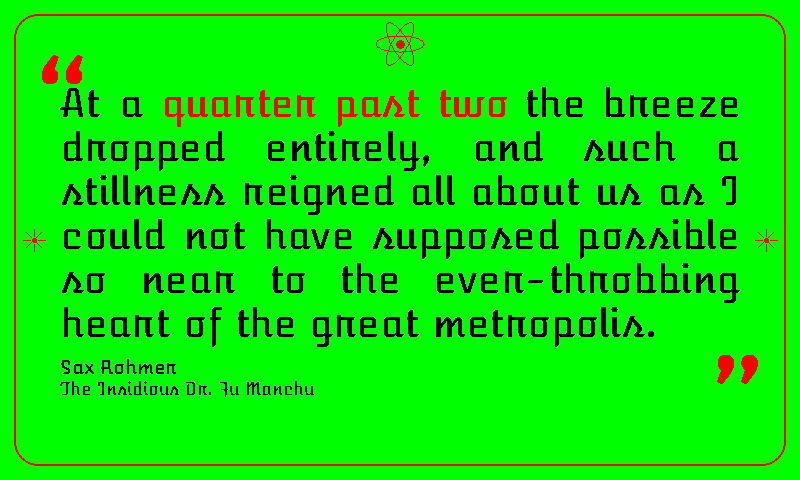
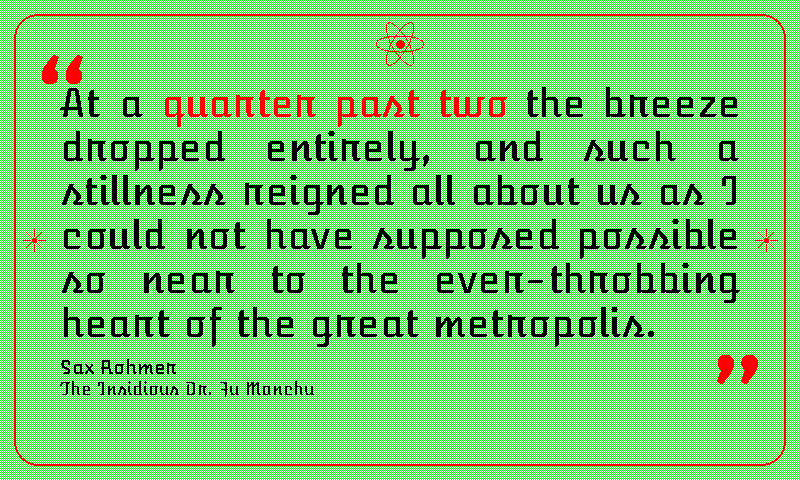
Dither atomic theme ground 50/50 white/green; tighten theme gallery
The atomic theme's solid Spectra-6 green ground was visually loud — at
panel viewing distance the eye couldn't soften it. Paint a 50/50
white-on-green checkerboard as Layer 0 of draw_atomic_border so the
ground reads as a pale minty wash while staying natively on the panel
palette (every pixel still one of the six pure inks; snap_image_to_palette
is a no-op). Same trick alchemy uses for its parchment halftone.

Also pare down the README theme gallery: drop the editorial annotations
from the data columns and collapse each "Feel" entry to one tight phrase
so the preview images carry the visual detail instead of the prose.
Regenerated assets/previews/atomic.png to reflect the dithered ground.

https://claude.ai/code/session_01GUDzVT7kFuEAMTLgEcieqM

diff --git a/render_quote.py b/render_quote.py
@@ -248,13 +248,15 @@ THEMES = {
     },
     # Mid-century atomic age. Sputnik-green ground (the only theme to
     # claim Spectra 6's flat green as a *background* — every other
-    # theme uses green only as ink), chunky black body in the Atomic
-    # Age display face, atomic-energy red for the matched time
-    # phrase and the decorative graphics. Pairs with a
-    # ``draw_atomic_border`` of a rounded-corner red frame
-    # (Googie / streamlined-modern curves), a centred atom symbol at
-    # the top of the page (three rotated red ellipse "orbits" plus a
-    # central red nucleus), and small red starbursts at the
+    # theme uses green only as ink), softened by a 50/50 white-on-green
+    # checkerboard painted in ``draw_atomic_border``'s Layer 0 so the
+    # ground reads as a pale minty wash rather than the panel's vivid
+    # pure green. Chunky black body in the Atomic Age display face,
+    # atomic-energy red for the matched time phrase and the decorative
+    # graphics. Pairs with a ``draw_atomic_border`` of a rounded-corner
+    # red frame (Googie / streamlined-modern curves), a centred atom
+    # symbol at the top of the page (three rotated red ellipse "orbits"
+    # plus a central red nucleus), and small red starbursts at the
     # mid-edges (the radiating-rays motif of 1950s diner / motel
     # signage). Reads as a vintage atomic-age advertisement at a
     # glance — bright, optimistic, slightly garish.
@@ -265,8 +267,8 @@ THEMES = {
         "faint": SPECTRA6["black"],
         "accent": SPECTRA6["red"],
         # Both ornament keys collapse onto red so the oversized
-        # quote marks render as solid red against the green ground —
-        # otherwise the dither's green half would blend into the bg
+        # quote marks render as solid red against the dithered ground —
+        # otherwise the dither's lighter half would blend into the bg
         # and leave half-density ornaments. Same trick `gothic`
         # uses to keep its red blackletter quote marks dramatic.
         "ornament_dark": SPECTRA6["red"],
@@ -2110,11 +2112,27 @@ def draw_dispatch_border(image: Image.Image, colors: dict) -> None:
 
 
 def draw_atomic_border(image: Image.Image, colors: dict) -> None:
-    """Atomic-age decorative border: rounded frame + atom symbol + starbursts.
+    """Atomic-age decorative border: dithered ground + rounded frame + atom + starbursts.
 
-    Three motifs from the 1950s-60s atomic / Sputnik / Googie design
+    Four layers from the 1950s-60s atomic / Sputnik / Googie design
     vocabulary:
 
+    * **Layer 0 — 50/50 white-on-green checkerboard ground.** Every
+      pixel matching ``page_bg`` is replaced with white on one half of
+      a single-pixel checkerboard, leaving the other half as the
+      Spectra-6 flat green. At panel viewing distance the eye averages
+      the alternation into a pale minty wash — softer than the solid
+      vivid green of the underlying ink, but still unmistakably green.
+      Painted at the very start of the painter, BEFORE the decoration
+      layers below, so the rounded frame / atom / starbursts overpaint
+      the dithered ground cleanly. The pattern lives natively on the
+      Spectra-6 palette (every output pixel is still one of the six
+      pure panel colours), so ``snap_image_to_palette`` is a no-op
+      and subsequent text rendering uses these pixels as anti-aliasing
+      source — the palette snap step rounds mixed-edge pixels back to
+      the same colours they produced before the dither, so glyph
+      silhouettes stay sharp. Same trick the ``alchemy`` parchment
+      halftone uses.
     * **Rounded-corner outer frame** in red — the streamlined-modern
       curve language of Googie coffee-shop architecture and motel
       signage. ``draw.rounded_rectangle`` is Pillow ≥ 8.2.
@@ -2135,12 +2153,25 @@ def draw_atomic_border(image: Image.Image, colors: dict) -> None:
       keeps them outside the centred body text block and balances the
       composition top-to-bottom.
 
-    Every glyph is in the theme's ``accent`` colour (red), so a future
-    palette tweak in ``THEMES["atomic"]`` flows through automatically.
+    Every decoration glyph is in the theme's ``accent`` colour (red),
+    so a future palette tweak in ``THEMES["atomic"]`` flows through
+    automatically.
     """
-    draw = ImageDraw.Draw(image)
     width, height = image.size
+    page_bg = colors["page_bg"]
     accent = colors["accent"]
+
+    # Layer 0: 50/50 white-on-green checkerboard. Only pixels matching
+    # the exact ``page_bg`` colour are affected — defence in depth if a
+    # future caller paints accents before this painter runs.
+    dither_light = SPECTRA6["white"]
+    pixels = image.load()
+    for y in range(height):
+        for x in range(width):
+            if (x + y) & 1 and pixels[x, y] == page_bg:
+                pixels[x, y] = dither_light
+
+    draw = ImageDraw.Draw(image)
 
     # Rounded outer frame.
     frame_inset = 14

diff --git a/README.md b/README.md
@@ -253,28 +253,28 @@ python3 run_clock.py --once --display-script display_inky.py --mode production
 
 ### Themes
 
-Eighteen themes ship built-in, all constrained to the Spectra 6 panel palette (white / black / red / yellow / blue / green). Each theme also pairs its palette with its own typeface so the visual voice — not just the colour — shifts with the theme. Previews all show the same quote so the palette + typography differences are the only variable; the real renders adapt layout to the picked line's length.
+Eighteen themes ship built-in, all constrained to the Spectra 6 panel palette (white / black / red / yellow / blue / green). Each theme pairs its palette with a dedicated typeface. Previews use a fixed quote so palette + typography are the only variables; production renders adapt layout to the picked line.
 
-| `--theme`     | Preview | Page bg | Body text | Accent  | Typeface         | Feel                                          |
-|---------------|---------|---------|-----------|---------|------------------|-----------------------------------------------|
-| `default`     | <img src="assets/previews/default.png" width="240" alt="default theme preview">         | white   | black     | red     | Playfair Display | Classic broadsheet                            |
-| `dark`        | <img src="assets/previews/dark.png" width="240" alt="dark theme preview">               | black   | white     | yellow  | Playfair Display | Night mode                                    |
-| `scholar`     | <img src="assets/previews/scholar.png" width="240" alt="scholar theme preview">         | white   | blue      | red     | Bitter (slab)    | Academic textbook / journal                   |
-| `newsprint`   | <img src="assets/previews/newsprint.png" width="240" alt="newsprint theme preview">     | white   | black     | (none)  | Old Standard TT  | Pure typography — bold-weight accent          |
-| `nightvision` | <img src="assets/previews/nightvision.png" width="240" alt="nightvision theme preview"> | black   | green     | yellow  | Space Mono       | Retro terminal / Apollo-era monitor           |
-| `blueprint`   | <img src="assets/previews/blueprint.png" width="240" alt="blueprint theme preview">     | white   | blue      | red     | Archivo (sans)   | Drafting blueprint / engineering sheet        |
-| `illuminated` | <img src="assets/previews/illuminated.png" width="240" alt="illuminated theme preview"> | white   | red       | blue    | EB Garamond + UnifrakturMaguntia | Rubricated medieval manuscript  |
-| `gothic`      | <img src="assets/previews/gothic.png" width="240" alt="gothic theme preview">           | black   | white     | red     | EB Garamond + UnifrakturMaguntia | Cathedral chronicle — blackletter matched phrase + oversized rubricated quote marks, double-rule frame with corner quatrefoils and mid-edge diamonds |
-| `bauhaus`     | <img src="assets/previews/bauhaus.png" width="240" alt="bauhaus theme preview">         | white   | black     | blue (+ red ornaments) | Jost (geometric sans) | Bauhaus poster — three primaries at once |
-| `risograph`   | <img src="assets/previews/risograph.png" width="240" alt="risograph theme preview">     | white   | red       | blue    | Rubik (rounded sans) | Zine / two-colour riso — no black plate   |
-| `comic`       | <img src="assets/previews/comic.png" width="240" alt="comic theme preview">             | yellow  | black     | red     | Bangers (comic)  | Golden-age comic panel                        |
-| `dispatch`    | <img src="assets/previews/dispatch.png" width="240" alt="dispatch theme preview">       | white   | black     | red     | Special Elite (typewriter slab-mono) | Vintage field dispatch — typewritten body, bichrome ribbon-shift accent, tractor-feed perforations on the side margins, red rubber-stamp imprint top-right |
-| `atomic`      | <img src="assets/previews/atomic.png" width="240" alt="atomic theme preview">           | green   | black     | red     | Atomic Age (1950s display)           | Mid-century atomic age — Sputnik-green ground, chunky display body, rounded Googie frame with a centred atom symbol at top and twin starbursts at the mid-edges |
-| `marker`      | <img src="assets/previews/marker.png" width="240" alt="marker theme preview">           | white   | black     | blue    | Permanent Marker (hand-drawn)        | Fridge-doodle Sharpie hand — multi-colour dashed perimeter, four corner asterisks (red / blue / green / yellow), and yellow + green mid-edge marker dots; the only theme that lights up every Spectra 6 spot colour at once |
-| `saloon`      | <img src="assets/previews/saloon.png" width="240" alt="saloon theme preview">           | white (foxed) | black | red | Rye (wood-engraved slab)             | 19th-century Wild West wanted-poster — heavy block-printed body in Rye, layered background (sparse red foxing speckles across the page, ornamented top + bottom banner bands, double-rule frame, corner fleurons with red triangular wings, mid-edge red diamonds) |
-| `roman`       | <img src="assets/previews/roman.png" width="240" alt="roman theme preview">             | white (limestone) | black | red (rubrum) | Cinzel Decorative (Trajan-column inscriptional capitals) | Roman lapidary inscription — V-cut chiselled capitals on limestone, tabula ansata frame with trapezoidal handles, SPQR cartouche, red rubrum on the matched phrase, stone-grain speckles in the margin, mid-edge interpunct dots, laurel sprig at bottom |
-| `alchemy`     | <img src="assets/previews/alchemy.png" width="240" alt="alchemy theme preview">         | yellow (parchment, halftoned) | black | red (rubric) | IM Fell English (17th-century Oxford types) + MedievalSharp (calligraphic ritual hand) | Parchment grimoire — yellow page ground halftoned with a 4×4 Bayer-dither pattern keeping only 2 of every 16 pixels yellow (the other 14 converted to white) so the eye averages the alternating pure-yellow + pure-white pixels into a pale ivory parchment with subtle yellow warmth (newsprint-style halftoning — the only way to fake a non-palette tone on the 6-colour Spectra panel), period-authentic Fell types for the body, red-rubricated matched phrase in MedievalSharp's sharp ritual-scribe hand. Full transmutation-circle ritual diagram: rectangular red ritual boundary + four red corner pentagrams in their protective circles, big inscribed blue transmutation circle with double-ring incantation band (72 tick marks at 5° intervals), inscribed pentagram + inner pentagon + five red anchor dots at the star's outer vertices, four flanking planetary glyphs (☉ Sol / ☽ Luna / ♂ Mars / ♀ Venus) along the top margin around the transmutation-circle's apex, and the four classical-element triangles (🜃 Earth / 🜄 Water / 🜂 Fire / 🜁 Air) along the bottom margin with the alchemical sun glyph (☉) centred between them — the body quote sits in the inscribed-pentagon "operative chamber" as the phrase being declared into the circle |
-| `grimoire`    | <img src="assets/previews/grimoire.png" width="240" alt="grimoire theme preview">       | black   | white     | red     | IM Fell English + TFoustScript       | Alchemical Faustian spellbook — IM Fell English body in white on a leather-bound black ground (Igino Marini's digital revival of John Fell's 17th-century Oxford University Press types, deliberate inking irregularities preserved so the page reads as a genuine antique tome), matched time phrase scrawled in red TFoustScript's hollow-outline shaggy silhouette like a magic-circle inscription, thin red outer rule with a five-pointed pentagram *inscribed in a ring* at each corner, and the four classical planetary alchemical sigils on the mid-edges (Sun ☉ top, Moon ☽ bottom, Mars ♂ left, Venus ♀ right) — the iconographic vocabulary of an occult diagram applied to the page. Shares the IM Fell English body with `alchemy` above; the polarity flip (black ground vs. parchment) plus the different matched-phrase face (TFoustScript hollow scrawl vs. MedievalSharp ritual hand) keeps the two occult themes distinct |
+| `--theme`     | Preview | Page bg | Body  | Accent | Typeface             | Feel                          |
+|---------------|---------|---------|-------|--------|----------------------|-------------------------------|
+| `default`     | <img src="assets/previews/default.png" width="240" alt="default theme preview">         | white       | black | red    | Playfair Display     | Classic broadsheet            |
+| `dark`        | <img src="assets/previews/dark.png" width="240" alt="dark theme preview">               | black       | white | yellow | Playfair Display     | Night mode                    |
+| `scholar`     | <img src="assets/previews/scholar.png" width="240" alt="scholar theme preview">         | white       | blue  | red    | Bitter (slab)        | Academic textbook             |
+| `newsprint`   | <img src="assets/previews/newsprint.png" width="240" alt="newsprint theme preview">     | white       | black | (none) | Old Standard TT      | Bold-weight, no chroma        |
+| `nightvision` | <img src="assets/previews/nightvision.png" width="240" alt="nightvision theme preview"> | black       | green | yellow | Space Mono           | Retro terminal                |
+| `blueprint`   | <img src="assets/previews/blueprint.png" width="240" alt="blueprint theme preview">     | white       | blue  | red    | Archivo (sans)       | Drafting blueprint            |
+| `illuminated` | <img src="assets/previews/illuminated.png" width="240" alt="illuminated theme preview"> | white       | red   | blue   | EB Garamond + UnifrakturMaguntia | Rubricated manuscript |
+| `gothic`      | <img src="assets/previews/gothic.png" width="240" alt="gothic theme preview">           | black       | white | red    | EB Garamond + UnifrakturMaguntia | Cathedral chronicle   |
+| `bauhaus`     | <img src="assets/previews/bauhaus.png" width="240" alt="bauhaus theme preview">         | white       | black | blue   | Jost (geometric sans) | Bauhaus poster               |
+| `risograph`   | <img src="assets/previews/risograph.png" width="240" alt="risograph theme preview">     | white       | red   | blue   | Rubik (rounded sans) | Two-colour riso zine          |
+| `comic`       | <img src="assets/previews/comic.png" width="240" alt="comic theme preview">             | yellow      | black | red    | Bangers (comic)      | Golden-age comic panel        |
+| `dispatch`    | <img src="assets/previews/dispatch.png" width="240" alt="dispatch theme preview">       | white       | black | red    | Special Elite (typewriter) | Vintage field dispatch  |
+| `atomic`      | <img src="assets/previews/atomic.png" width="240" alt="atomic theme preview">           | green/white | black | red    | Atomic Age           | Mid-century Sputnik age       |
+| `marker`      | <img src="assets/previews/marker.png" width="240" alt="marker theme preview">           | white       | black | blue   | Permanent Marker     | Fridge-doodle Sharpie         |
+| `saloon`      | <img src="assets/previews/saloon.png" width="240" alt="saloon theme preview">           | white       | black | red    | Rye (wood-engraved slab) | Wild West wanted-poster   |
+| `roman`       | <img src="assets/previews/roman.png" width="240" alt="roman theme preview">             | white       | black | red    | Cinzel Decorative    | Roman lapidary inscription    |
+| `alchemy`     | <img src="assets/previews/alchemy.png" width="240" alt="alchemy theme preview">         | yellow/white | black | red   | IM Fell English + MedievalSharp | Parchment grimoire     |
+| `grimoire`    | <img src="assets/previews/grimoire.png" width="240" alt="grimoire theme preview">       | black       | white | red    | IM Fell English + TFoustScript | Faustian spellbook       |
 
 Pass `--theme auto` to let the clock pick by wall-clock time. The defaults are `default` during the day (06:00–18:00) and `dark` at night (18:00–06:00) — the legacy binary contract. Broaden the rotation by setting `--auto-day-theme` and/or `--auto-night-theme` to any other registered theme, e.g.
 
